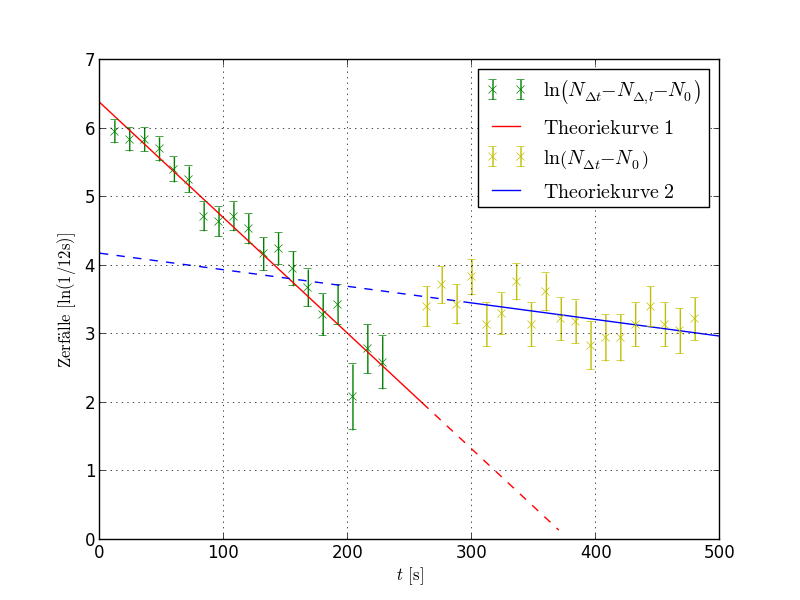
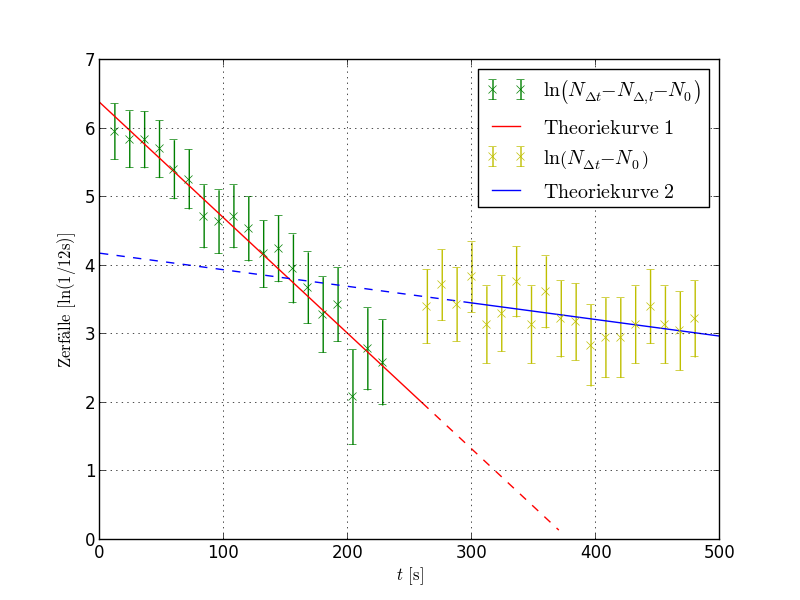
Durchfuehrung

diff --git a/V702_Aktivierung/data/fit_linear.py b/V702_Aktivierung/data/fit_linear.py
@@ -62,11 +62,11 @@ if data == 'rhodium':
 
 	gerade_1, = plt.plot(x1_theorie, funk(x1_theorie, p[0], p[1]), 'r-')
 	plt.plot(x1_theorie_punkte, funk(x1_theorie_punkte, p[0], p[1]), 'r--')
-	werte_1 = plt.errorbar(x1, y1, yerr = 1 / np.sqrt(y1 ** 2 + N_Dunkel), fmt = 'gx')
+	werte_1 = plt.errorbar(x1, y1, yerr = np.sqrt(y1 + N_Dunkel) / (y1 - N_Dunkel), fmt = 'gx')
 
 	gerade_2, = plt.plot(x2_theorie, funk(x2_theorie, p2[0], p2[1]), 'b-')
 	plt.plot(x2_theorie_punkte, funk(x2_theorie_punkte, p2[0], p2[1]), 'b--')
-	werte_2 = plt.errorbar(x2, y2, yerr = 1 / np.sqrt(y2 ** 2 + N_Dunkel), fmt = 'yx')
+	werte_2 = plt.errorbar(x2, y2, yerr = np.sqrt(y2 + N_Dunkel) / (y2 - N_Dunkel), fmt = 'yx')
 
 	plt.legend((werte_1, gerade_1, werte_2, gerade_2), (r'$\ln{\left(N_{\Delta t} - N_{\Delta , l} - N_0 \right)}$', r'$\mathrm{Theoriekurve\ 1}$', r'$\ln{\left( N_{\Delta t} - N_0 \right)}$', r'$\mathrm{Theoriekurve\ 2}$'))
 
@@ -81,19 +81,19 @@ elif data == 'indium':
 
 	x *= 240
 
-	y -= 256 / 900 * 240
-	y = np.log(y)
-
 	y_error = np.sqrt(y)
-	#y_error = np.log(y)
-	#y = np.log(y)
+
+	N_Dunkel = 256 / 900 * 240
+	y -= N_Dunkel
+
+	y = np.log(y)
 
 	x_theorie = np.arange(0, 4001, 1)
 
 	plt.xlabel(r'$t\,[\mathrm{s}]$')
 	plt.ylabel(r'$\mathrm{Zerf\"alle}\,[1 / 240\mathrm{s}]$')
 
-	m_vorschlag = 2.127e-4
+	m_vorschlag = np.log(2) / 60
 	n_0_vorschlag = 50000
 	vor_werte = np.array([m_vorschlag, n_0_vorschlag])
 
@@ -104,7 +104,7 @@ elif data == 'indium':
 	print(p)
 	plt.plot(x_theorie, funk(x_theorie, p[0], p[1]), 'r-')
 
-	plt.errorbar(x, y, yerr = 1 / np.sqrt((y_error ** 2) + 256 / 900 * 240), fmt = 'kx')
+	plt.errorbar(x, y, yerr = np.sqrt(y + N_Dunkel) / (y - N_Dunkel), fmt = 'kx')
 
 	t_halb = np.log(2) / p[0]
 	print('=> lambda: ' + str(p[0]))

diff --git a/V702_Aktivierung/03_auswertung.tex b/V702_Aktivierung/03_auswertung.tex
@@ -1,2 +1,27 @@
 \section{Auswertung}
 	\label{sec:auswertung}
+	Vor allen Messungen musste der Nulleffekt ermittelt werden, um unsere Messwerte sp"ater von diesem zu bereinigen.
+	Hierf"ur wurden die Zerf"alle $N_0$, die ohne Probe ermittelt werden, "uber lange Zeit gez"ahlt.
+	Anschlie"send konnten die eigentlichen Messungen durchgef"uhrt werden.
+	
+
+	Um auf die Halbwertszeiten zu schlie"sen konnten die Beziehungen \eqref{bla} aus Kapitel \ref{sec:theorie} verwendet werden.
+	Weil die Messwerte Poisson-verteilt sind, betrug der Fehler auf die Messwerte
+
+	\begin{eqnarray}
+		\Delta N_{\Delta t, \mathrm{roh}} & = & \sqrt{N_{\Delta t, \mathrm{roh}}}, \\
+		\Delta N_0 & = & \sqrt{N_0},\\
+		\Rightarrow \Delta N_{\Delta t} & = & \sqrt{N_{\Delta t, \mathrm{roh}} + N_0}.
+	\end{eqnarray}
+
+	Um eine Ausgleichsrechnung durchzuf"uhren wurden die Werte linearisiert, was einen weiteren Fehler durch Gau"s'sche Fehlerfortpflanzung erzeugt:
+
+	\begin{equation}
+		\Delta N = \frac{\partial}{\partial N} \ln{\left( N_{\Delta t, \mathrm{roh}} - N_0 \right)} \cdot \Delta N_{\Delta t} = \frac{\Delta N_{\Delta t}}{N_{\Delta t, \mathrm{roh}} - N_0}
+	\end{equation}
+
+	\subsection{Halbwertszeit von Indium}
+		\label{subsec:indium}
+
+	\subsection{Halbwertszeit von Rhodium}
+		\label{subsec:rhodium}

diff --git a/V702_Aktivierung/02_durchfuehrung.tex b/V702_Aktivierung/02_durchfuehrung.tex
@@ -1,2 +1,27 @@
 \section{Aufbau und Durchf"uhrung}
 	\label{sec:durchfuehrung}
+
+	Wir wollen die Halbwertszeiten $T$ f"ur ${}_{49}^{116}\mathrm{In}$ (Indium) und ${}_{45}^{104}\mathrm{Rh}$, bzw. ${}_{45}^{104i}\mathrm{Rh}$ (Rhodium) bestimmen.
+
+	\subsection{Aufbau}
+		\label{subsec:aufbau}
+		F"ur diesen Versuch stand ein Geiger-M"uller-Z"ahlrohr (GMZ), sowie eine Z"ahluhr zur Verf"ugung.
+		Die Proben wurden in das GMZ gegeben und die Uhr auf ein bestimmtes Zeitintervall $\Delta t$ eingestellt.
+		Alle Zerf"alle, die das GMZ registrierte wurden durch die Uhr gez"ahlt.
+		Die Anzeige wurde nach dem eingestellten Zeitintervall automatisch gel"oscht und die n"achste Z"ahlung begonnen.
+		Um die Werte bequem ablesen zu k"onnen besa"s die Z"ahluhr zwei Anzeigen, die abwechselnd eingeschaltet wurden.
+		Folgende Abbildung zeigt den Aufbau:
+
+		\begin{figure}[h]
+			\centering
+			\includegraphics[width = 15cm]{aufbau.jpeg}
+			\caption{Versuchsaufbau}
+			\label{fig:aufbau}
+		\end{figure}
+
+	\subsection{Messaufgaben}
+		\label{subsec:aufgaben}
+		\begin{enumerate}
+			\item{Bestimmung der Halbwertszeit $T_\mathrm{In}$ von Indium-116}
+			\item{Bestimmung der Halbwertszeit $T_{\mathrm{Rh}, 1}$ von Rhodium-104 und $T_{\mathrm{Rh}, 2}$ von Rhodium-104i}
+		\end{enumerate}
